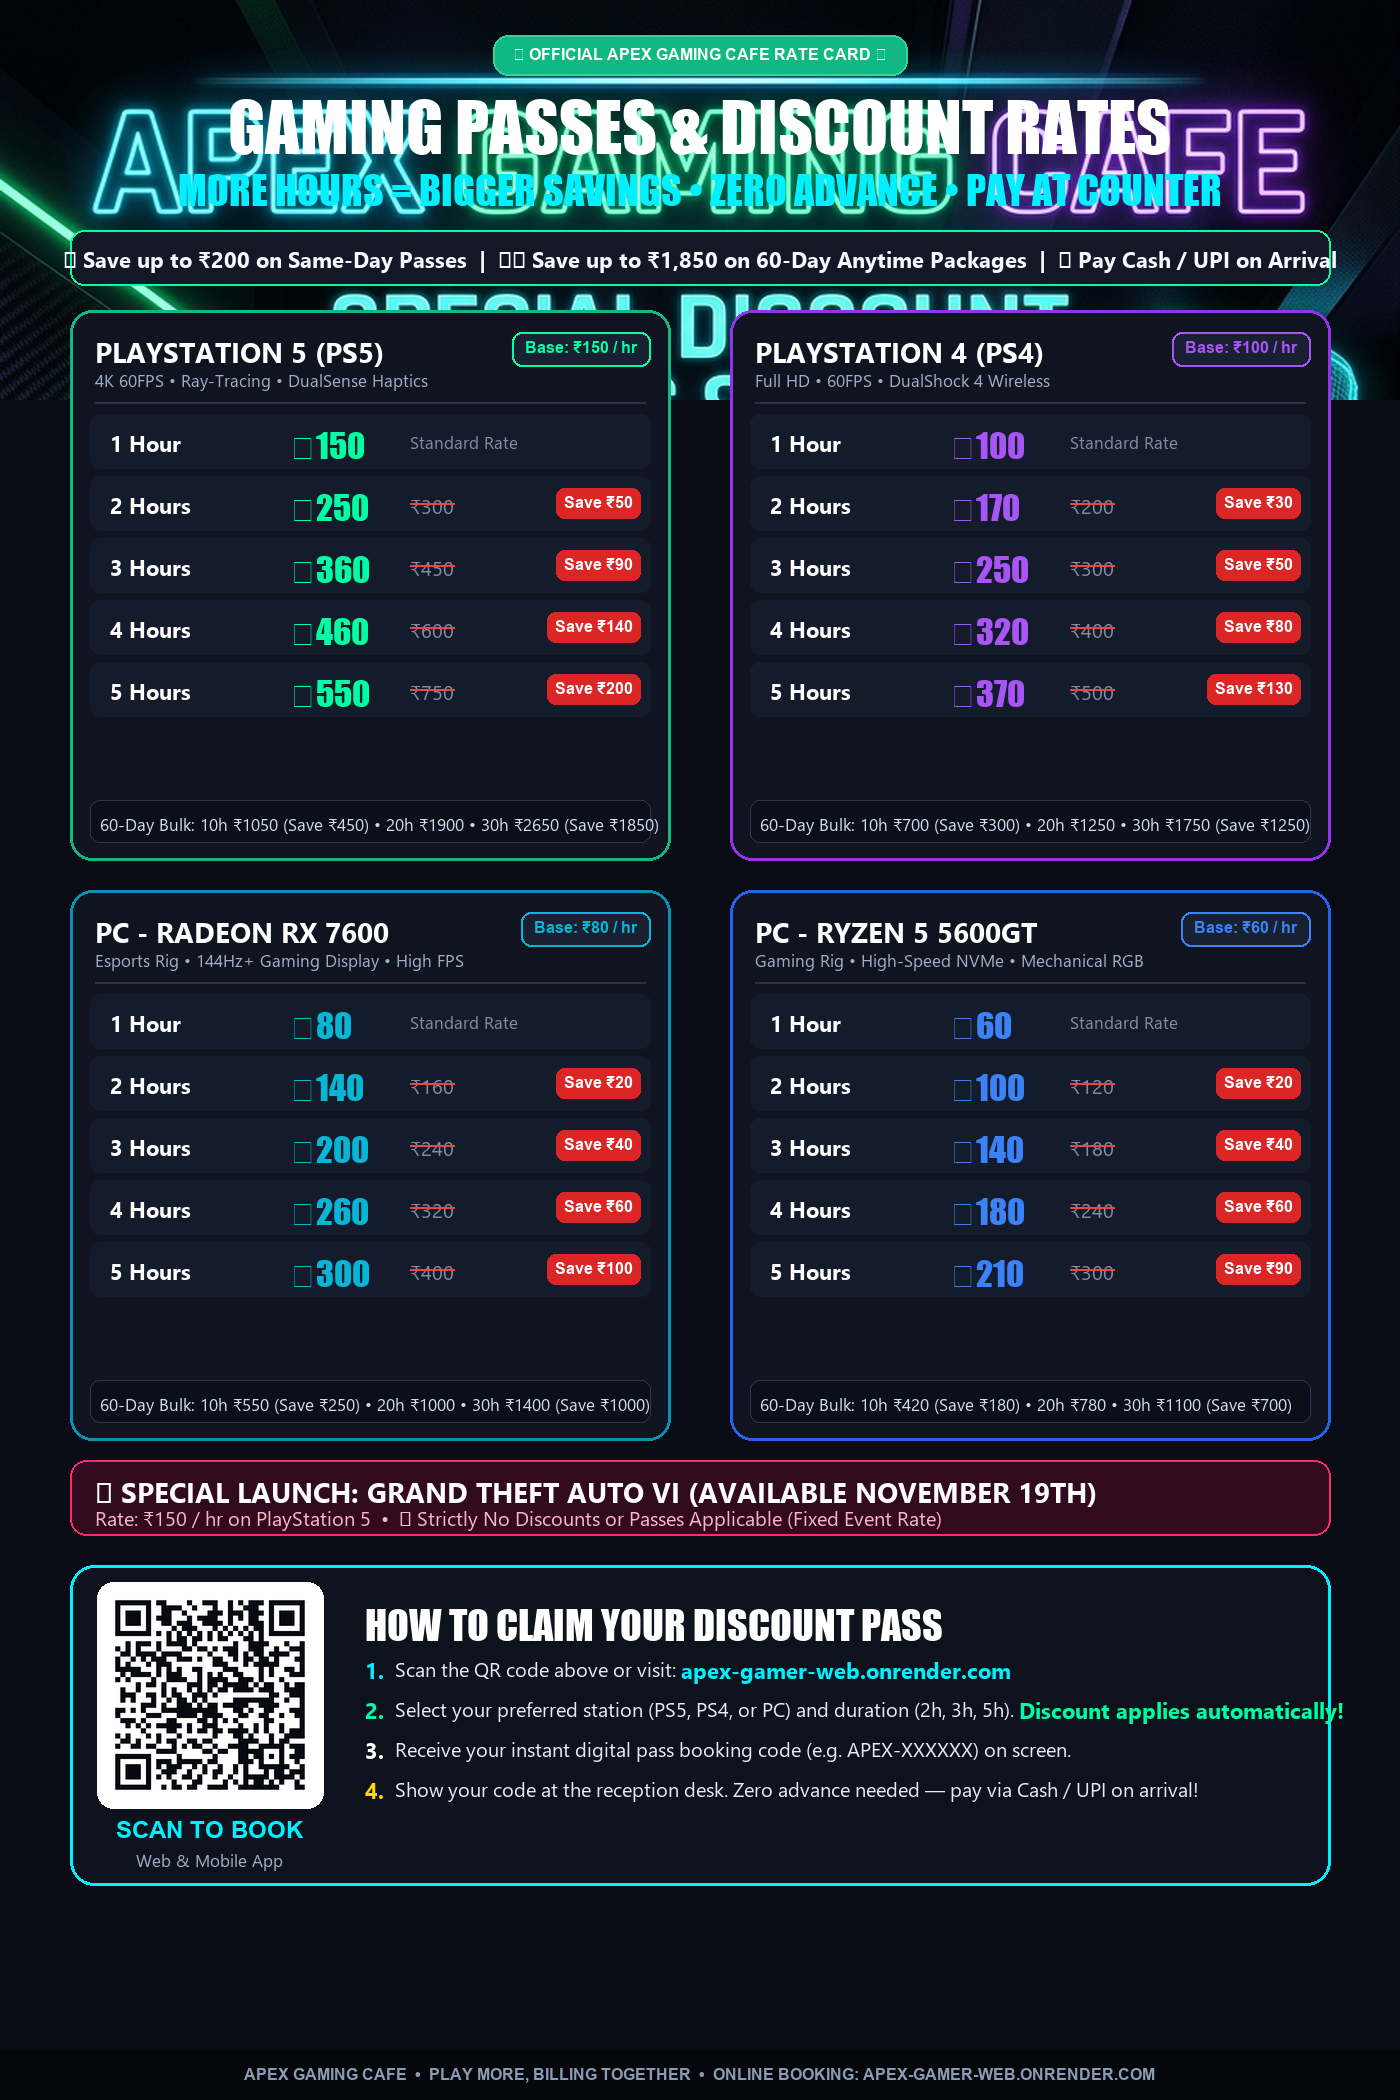
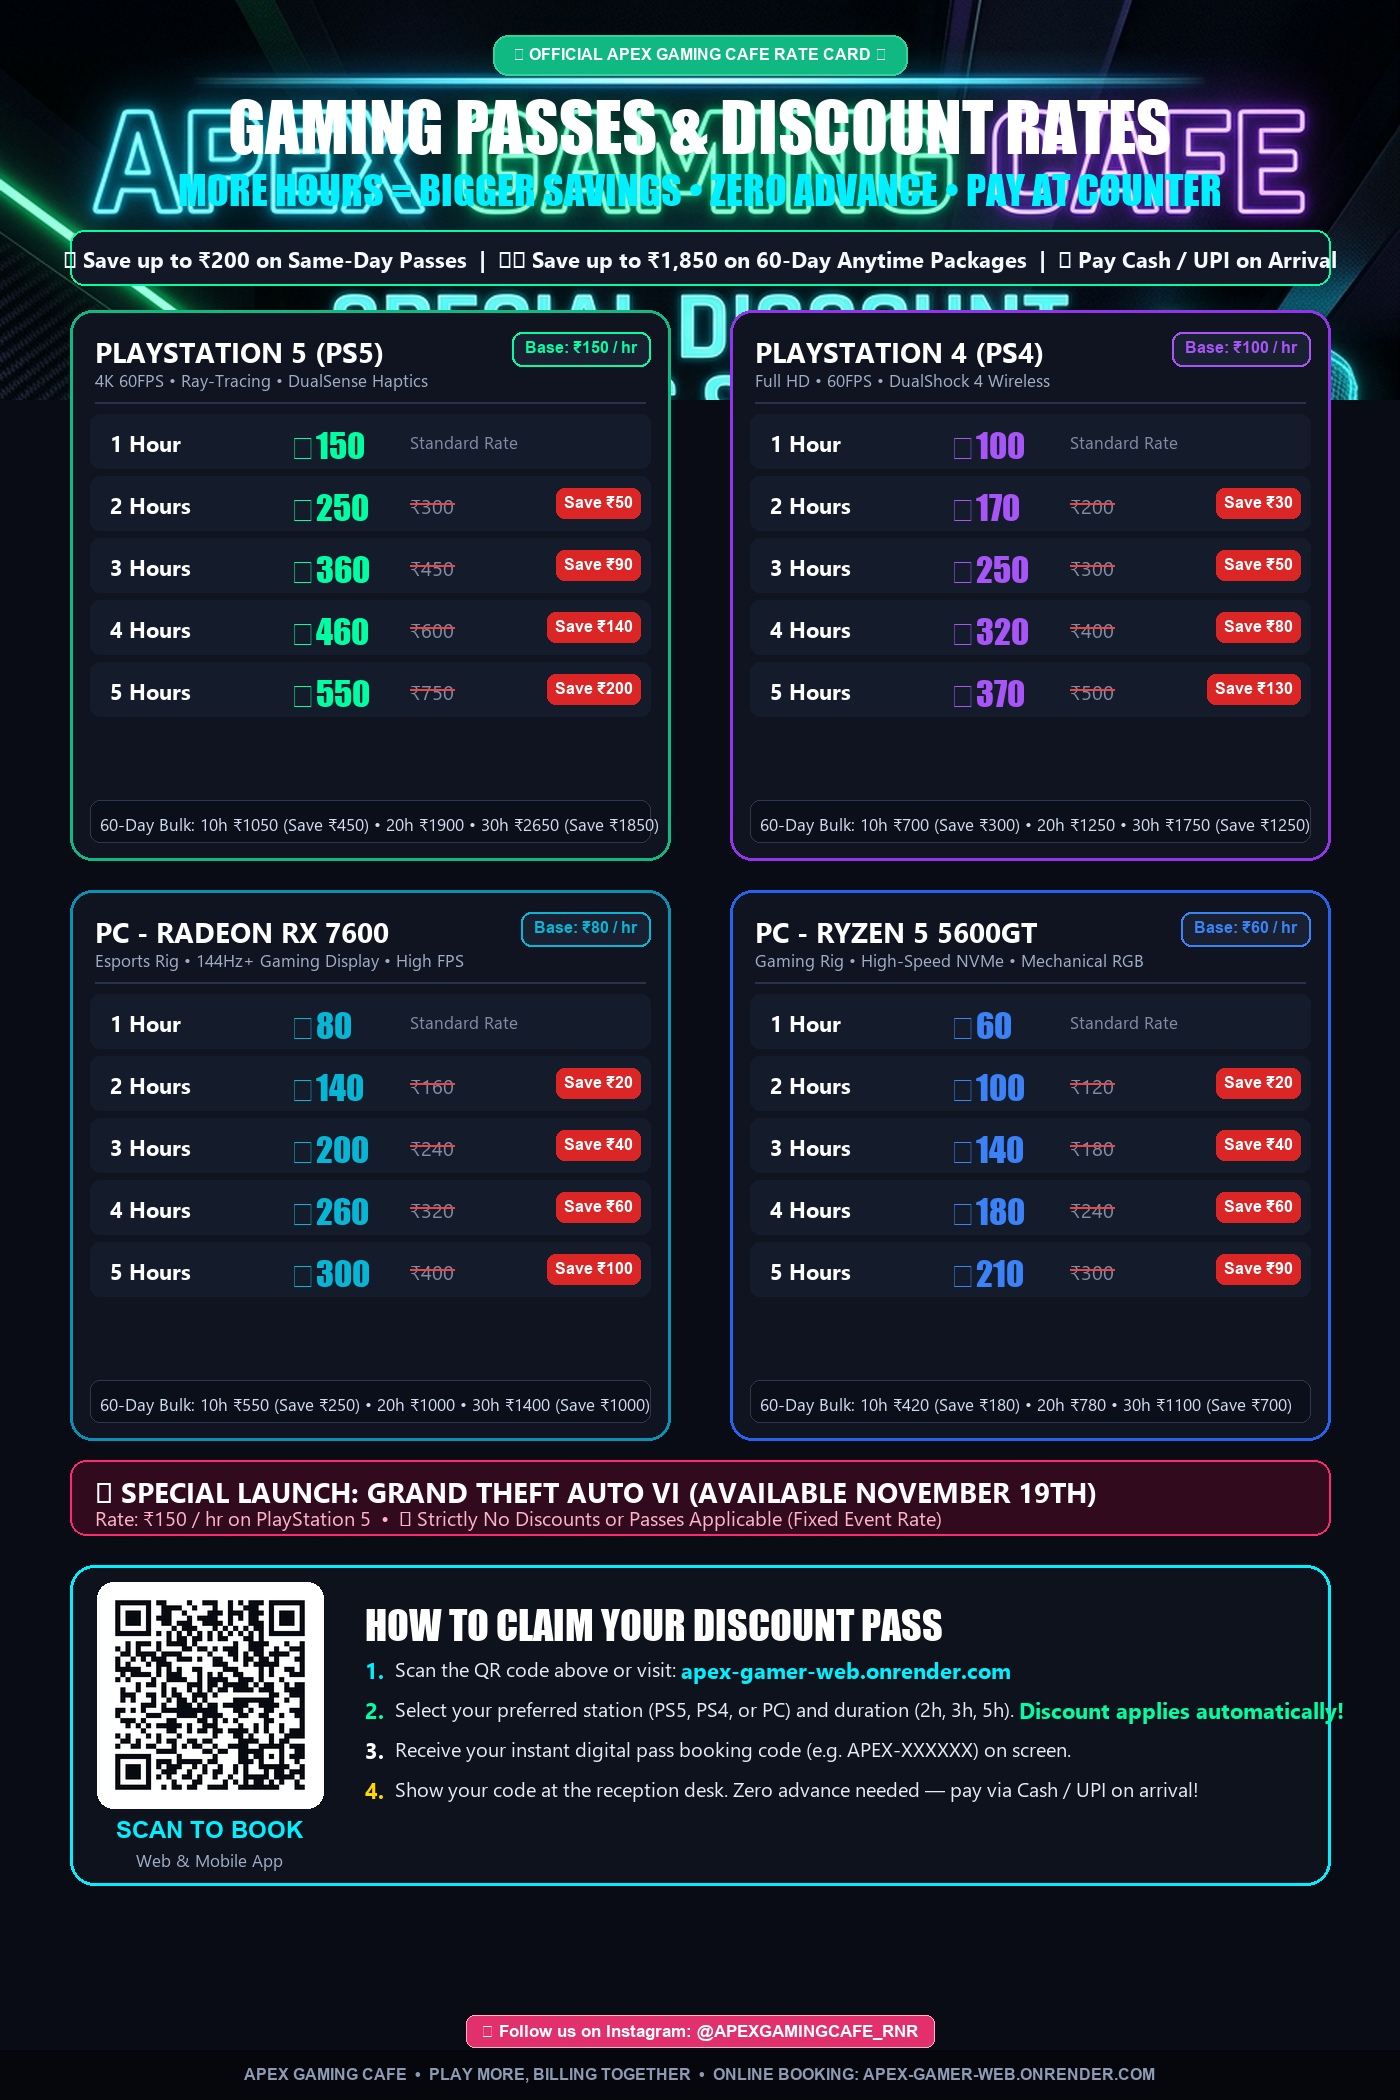
feat: Add Follow us on Instagram (@APEXGAMINGCAFE_RNR) QR modal, navbar button, footer, and posters

Changed region(s): [[0.3379, 0.9595, 0.6757, 0.9905]]

diff --git a/frontend/src/components/QrCodeModal.jsx b/frontend/src/components/QrCodeModal.jsx
@@ -1,15 +1,16 @@
 import React from 'react';
-import { X, Download, Smartphone, Globe, QrCode } from 'lucide-react';
+import { X, Download, Smartphone, Globe, QrCode, ExternalLink } from 'lucide-react';
 
 export default function QrCodeModal({ isOpen, onClose }) {
   if (!isOpen) return null;
 
   const webUrl = typeof window !== 'undefined' ? window.location.origin : 'https://apex-gamer-web.onrender.com';
   const appDownloadUrl = `${webUrl}/ApexGamer.apk`;
+  const instagramUrl = 'https://www.instagram.com/apexgamingcafe_rnr/';
 
   return (
-    <div className="fixed inset-0 z-50 flex items-center justify-center p-4 bg-black/85 backdrop-blur-sm animate-fade-in">
-      <div className="relative w-full max-w-lg bg-neutral-900 border border-neutral-800 rounded-3xl p-6 sm:p-8 shadow-2xl max-h-[92vh] overflow-y-auto">
+    <div className="fixed inset-0 z-50 flex items-center justify-center p-3 sm:p-4 bg-black/85 backdrop-blur-sm animate-fade-in">
+      <div className="relative w-full max-w-3xl bg-neutral-900 border border-neutral-800 rounded-3xl p-5 sm:p-7 shadow-2xl max-h-[92vh] overflow-y-auto">
         <button
           onClick={onClose}
           className="absolute top-4 right-4 text-neutral-400 hover:text-white p-1 rounded-lg hover:bg-neutral-800 transition-colors cursor-pointer"
@@ -22,61 +23,103 @@ export default function QrCodeModal({ isOpen, onClose }) {
             <QrCode className="w-6 h-6" />
           </div>
           <h2 className="text-2xl font-bold text-white tracking-wide">
-            Apex Gaming Cafe on Mobile
+            Apex Gaming Cafe Quick Connect
           </h2>
           <p className="text-xs text-neutral-400 mt-1">
-            Scan to book on mobile web or download the dedicated Android app
+            Book slots online, download the mobile app, or follow us on Instagram
           </p>
         </div>
 
-        <div className="grid grid-cols-1 sm:grid-cols-2 gap-4 mb-6">
+        <div className="grid grid-cols-1 sm:grid-cols-3 gap-3.5 mb-6">
           {/* 1. Customer Web QR */}
-          <div className="bg-neutral-950 border border-neutral-800 rounded-2xl p-4 text-center flex flex-col items-center">
-            <div className="flex items-center gap-1.5 text-xs font-bold text-emerald-400 uppercase tracking-wider mb-3">
+          <div className="bg-neutral-950 border border-neutral-800 rounded-2xl p-3.5 text-center flex flex-col items-center">
+            <div className="flex items-center gap-1.5 text-xs font-bold text-emerald-400 uppercase tracking-wider mb-2.5">
               <Globe className="w-3.5 h-3.5" />
               <span>Customer Web</span>
             </div>
-            <div className="p-2 bg-white rounded-xl shadow-md mb-3">
+            <div className="p-2 bg-white rounded-xl shadow-md mb-2.5">
               <img
                 src="/qr_customer_web.png"
                 alt="Scan for Customer Web"
-                className="w-36 h-36 object-contain"
+                className="w-32 h-32 object-contain"
               />
             </div>
             <span className="text-[11px] text-neutral-400 font-mono break-all mb-2">
-              {webUrl}
+              apex-gamer-web.onrender.com
             </span>
-            <span className="text-[10px] text-neutral-400 bg-neutral-900 px-2 py-0.5 rounded-full border border-neutral-800">
+            <span className="text-[10px] text-neutral-400 bg-neutral-900 px-2 py-0.5 rounded-full border border-neutral-800 mt-auto">
               No download • Instant booking
             </span>
           </div>
 
           {/* 2. Customer Android App QR */}
-          <div className="bg-neutral-950 border border-neutral-800 rounded-2xl p-4 text-center flex flex-col items-center">
-            <div className="flex items-center gap-1.5 text-xs font-bold text-emerald-400 uppercase tracking-wider mb-3">
+          <div className="bg-neutral-950 border border-neutral-800 rounded-2xl p-3.5 text-center flex flex-col items-center">
+            <div className="flex items-center gap-1.5 text-xs font-bold text-emerald-400 uppercase tracking-wider mb-2.5">
               <Smartphone className="w-3.5 h-3.5" />
               <span>Android App (APK)</span>
             </div>
-            <div className="p-2 bg-white rounded-xl shadow-md mb-3">
+            <div className="p-2 bg-white rounded-xl shadow-md mb-2.5">
               <img
                 src="/qr_customer_app.png"
                 alt="Scan to Install Android App"
-                className="w-36 h-36 object-contain"
+                className="w-32 h-32 object-contain"
               />
             </div>
+            <span className="text-[11px] text-neutral-400 mb-2">
+              Fast 1-tap slot access
+            </span>
             <a
               href={appDownloadUrl}
               download="ApexGamer.apk"
-              className="w-full py-2 px-3 bg-emerald-600 hover:bg-emerald-500 text-white rounded-xl text-xs font-bold flex items-center justify-center gap-1.5 transition-all shadow-md shadow-emerald-600/20 cursor-pointer mt-auto"
+              className="w-full py-1.5 px-3 bg-emerald-600 hover:bg-emerald-500 text-white rounded-xl text-xs font-bold flex items-center justify-center gap-1.5 transition-all shadow-md shadow-emerald-600/20 cursor-pointer mt-auto"
             >
               <Download className="w-3.5 h-3.5" />
               <span>Download APK</span>
             </a>
           </div>
+
+          {/* 3. Instagram Follow QR */}
+          <div className="bg-gradient-to-b from-neutral-950 to-pink-950/20 border border-pink-500/30 rounded-2xl p-3.5 text-center flex flex-col items-center">
+            <div className="flex items-center gap-1.5 text-xs font-bold text-pink-400 uppercase tracking-wider mb-2.5">
+              <svg className="w-3.5 h-3.5" viewBox="0 0 24 24" fill="none" stroke="currentColor" strokeWidth="2" strokeLinecap="round" strokeLinejoin="round">
+                <rect width="20" height="20" x="2" y="2" rx="5" ry="5"/>
+                <path d="M16 11.37A4 4 0 1 1 12.63 8 4 4 0 0 1 16 11.37z"/>
+                <line x1="17.5" x2="17.51" y1="6.5" y2="6.5"/>
+              </svg>
+              <span>Instagram</span>
+            </div>
+            <div className="p-1 bg-gradient-to-tr from-amber-500 via-pink-500 to-purple-600 rounded-xl shadow-md mb-2.5">
+              <img
+                src="/instagram_qr.jpg"
+                alt="Scan to follow @apexgamingcafe_rnr on Instagram"
+                className="w-32 h-32 object-cover rounded-lg"
+              />
+            </div>
+            <span className="text-xs font-bold text-white mb-2">
+              @APEXGAMINGCAFE_RNR
+            </span>
+            <a
+              href={instagramUrl}
+              target="_blank"
+              rel="noopener noreferrer"
+              className="w-full py-1.5 px-3 bg-gradient-to-r from-pink-600 to-purple-600 hover:from-pink-500 hover:to-purple-500 text-white rounded-xl text-xs font-bold flex items-center justify-center gap-1.5 transition-all shadow-md shadow-pink-600/20 cursor-pointer mt-auto"
+            >
+              <ExternalLink className="w-3.5 h-3.5" />
+              <span>Follow on Instagram</span>
+            </a>
+          </div>
         </div>
 
-        <div className="p-3 bg-neutral-950 border border-neutral-800 rounded-xl text-xs text-neutral-400 text-center">
-          💡 Connect your phone to cafe Wi-Fi to scan and book directly with zero queue waiting!
+        <div className="p-3 bg-neutral-950 border border-neutral-800 rounded-xl text-xs text-neutral-400 text-center flex flex-col sm:flex-row items-center justify-between gap-2">
+          <span>💡 Tag <strong>@APEXGAMINGCAFE_RNR</strong> in your stories & reels to win free bonus gaming hours!</span>
+          <a
+            href={instagramUrl}
+            target="_blank"
+            rel="noopener noreferrer"
+            className="text-pink-400 hover:text-pink-300 font-bold underline shrink-0"
+          >
+            Visit Profile →
+          </a>
         </div>
       </div>
     </div>

diff --git a/frontend/src/components/Navbar.jsx b/frontend/src/components/Navbar.jsx
@@ -90,8 +90,23 @@ export default function Navbar({ currentView, setCurrentView, currentUser, onLog
             title="Scan QR or Download Mobile App"
           >
             <QrCode className="w-3.5 h-3.5" />
-            <span className="hidden sm:inline">Get Mobile App</span>
+            <span className="hidden sm:inline">Get App & QR</span>
           </button>
+
+          <a
+            href="https://www.instagram.com/apexgamingcafe_rnr/"
+            target="_blank"
+            rel="noopener noreferrer"
+            className="flex items-center gap-1.5 px-2.5 sm:px-3 py-1.5 rounded-lg text-xs font-bold bg-gradient-to-r from-pink-600/20 to-purple-600/20 hover:from-pink-600/30 hover:to-purple-600/30 text-pink-300 border border-pink-500/30 transition-colors cursor-pointer"
+            title="Follow @APEXGAMINGCAFE_RNR on Instagram"
+          >
+            <svg className="w-3.5 h-3.5 text-pink-400" viewBox="0 0 24 24" fill="none" stroke="currentColor" strokeWidth="2" strokeLinecap="round" strokeLinejoin="round">
+              <rect width="20" height="20" x="2" y="2" rx="5" ry="5"/>
+              <path d="M16 11.37A4 4 0 1 1 12.63 8 4 4 0 0 1 16 11.37z"/>
+              <line x1="17.5" x2="17.51" y1="6.5" y2="6.5"/>
+            </svg>
+            <span className="hidden lg:inline">@APEXGAMINGCAFE_RNR</span>
+          </a>
 
           {currentUser ? (
             <div className="flex items-center gap-2 sm:gap-3">

diff --git a/frontend/src/App.jsx b/frontend/src/App.jsx
@@ -458,7 +458,22 @@ export default function App() {
 
       {/* Footer */}
       <footer className="mt-auto border-t border-neutral-900 bg-neutral-950 py-6 text-center text-xs text-neutral-500">
-        <p>© 2026 Apex Gaming Cafe. Real-time Station Booking & Esports Hub.</p>
+        <div className="max-w-7xl mx-auto px-4 flex flex-col sm:flex-row items-center justify-between gap-3">
+          <p>© 2026 Apex Gaming Cafe. Real-time Station Booking & Esports Hub.</p>
+          <a
+            href="https://www.instagram.com/apexgamingcafe_rnr/"
+            target="_blank"
+            rel="noopener noreferrer"
+            className="flex items-center gap-2 px-3.5 py-1.5 rounded-full bg-pink-950/40 border border-pink-500/40 text-pink-300 hover:text-white hover:border-pink-500/70 transition-all shadow-sm shadow-pink-500/10"
+          >
+            <svg className="w-4 h-4 text-pink-400 shrink-0" viewBox="0 0 24 24" fill="none" stroke="currentColor" strokeWidth="2" strokeLinecap="round" strokeLinejoin="round">
+              <rect width="20" height="20" x="2" y="2" rx="5" ry="5"/>
+              <path d="M16 11.37A4 4 0 1 1 12.63 8 4 4 0 0 1 16 11.37z"/>
+              <line x1="17.5" x2="17.51" y1="6.5" y2="6.5"/>
+            </svg>
+            <span className="font-bold text-[11px]">Follow us on Instagram: @APEXGAMINGCAFE_RNR</span>
+          </a>
+        </div>
       </footer>
     </div>
   );
